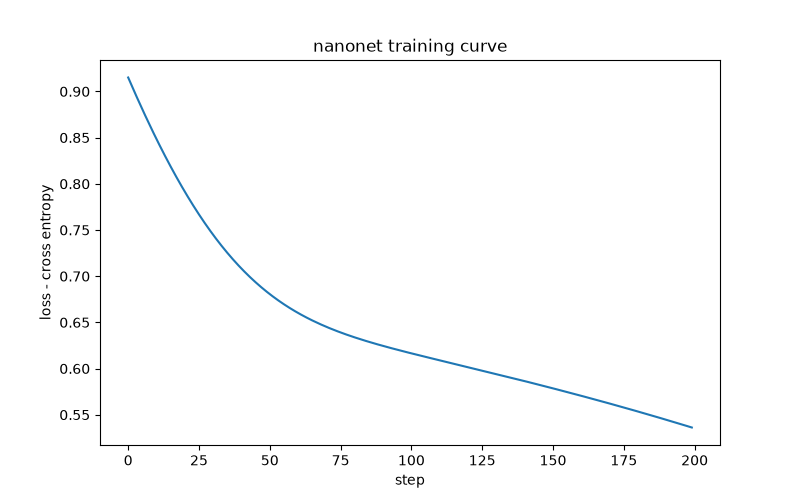
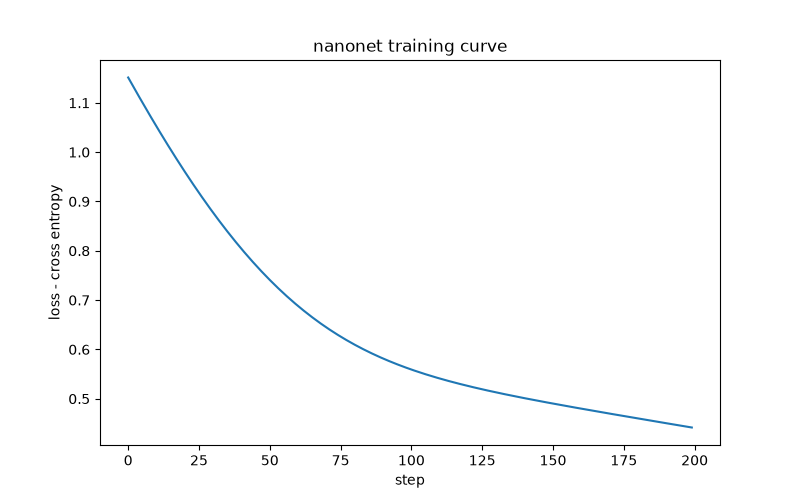
feat: library-style layout with fused softmax + cross-entropy

diff --git a/nanonet/model.py b/nanonet/model.py
@@ -1,0 +1,81 @@
+import numpy as np
+from nanonet.autograd import Tensor
+from nanonet.optim import Adam
+
+
+class MLP:
+    """Multi-Layer Perceptron"""
+    def __init__(self, n_in: int, n_hidden: int, n_out: int, seed=0):
+        rng = np.random.default_rng(seed)
+        self.W1 = Tensor(rng.standard_normal((n_in, n_hidden)) *  np.sqrt(2 / n_in))
+        self.b1 = Tensor(np.zeros((n_hidden)))
+        self.W2 = Tensor(rng.standard_normal((n_hidden, n_out)) * np.sqrt(2 / n_hidden))
+        self.b2 = Tensor(np.zeros((n_out)))
+        self.params: list = [self.W1, self.b1, self.W2, self.b2]
+        self.loss_history: list[float] = []
+
+        
+    def forward(self, X):
+        x = Tensor(X)
+        z : Tensor = x @ self.W1 + self.b1
+        a = z.sigmoid()
+        logits: Tensor = a @ self.W2 + self.b2
+        probs = logits.softmax()
+        return probs
+    
+        
+    def train(self, X, y, epochs: int=5, batch=128, lr=1e-3, verbose=True):
+        opt = Adam(self.params, lr=lr)
+        for epoch in range(epochs):
+            idx = np.random.permutation(len(X))
+            X_shuf, y_shuf = X[idx], y[idx]
+            ep_loss, nb = 0, 0
+            
+            for i in range(0, len(X), batch):
+                xb = X_shuf[i:i + batch]
+                yb = y_shuf[i:i + batch]
+                opt.zero_grad()
+                probs = self.forward(xb)
+                loss: Tensor = _cross_entropy(probs, yb)
+                loss.backward()
+                opt.step()
+                ep_loss += loss.data
+                nb += 1
+            avg = ep_loss / nb
+            self.loss_history.append(avg)
+                
+            if verbose:
+                d = 1/5*epochs if epochs < 10 else 1/10*epochs
+                if epoch % d == 0:
+                    print(f"epoch {epoch+1}/{epochs}, loss: {avg:.3f}")
+                    
+        return self.loss_history
+                
+        
+    def predict(self, X):
+        probs = self.forward(X)
+        return probs.data.argmax(axis=1)
+
+        
+
+def _cross_entropy(probs: Tensor, y: np.ndarray):
+    """
+    probs: Tensor with softmax probs (B, C)
+    y: (B,) int labels
+    return Tensor loss (scalar) that is differentiable
+    """
+    B = probs.data.shape[0]
+    log_p = np.log(probs.data[np.arange(B), y] + 1e-15)
+    loss_data = -log_p.mean()
+    out = Tensor(data=loss_data, _prev=(probs,), _op='ce')
+    
+    def _backward():
+        # dL/dprobs -> dL/dlogits fused trick: probs - one_hot
+        dlogits = probs.data.copy()
+        dlogits[np.arange(B), y] -= 1
+        dlogits /= B
+        # chain with out.grad (which is 1
+        probs.grad += dlogits * out.grad
+    out._backward = _backward
+    return out
+

diff --git a/nanonet/autograd.py b/nanonet/autograd.py
@@ -1,0 +1,81 @@
+import numpy as np
+
+class Tensor:
+    def __init__(self, data, _prev=(), _op=''):
+        self.data = np.array(data) if not isinstance(data, np.ndarray) else data
+        self.grad = np.zeros_like(self.data)
+        self._backward = lambda: None
+        self._prev = set(_prev)
+        self._op   = _op
+        
+        
+    def __matmul__(self, other):
+        """Matrix Multiplication"""
+        other = other if isinstance(other, Tensor) else Tensor(other)
+        out   = Tensor(np.dot(self.data, other.data), (self, other), '@')
+        
+        def _backward():
+            self.grad  += out.grad @ other.data.T
+            # handle batch matmul
+            if other.data.ndim == 2:
+                other.grad += self.data.T @ out.grad
+            else:
+                other.grad += self.data.T
+        
+        out._backward = _backward
+        return out
+        
+        
+    def __add__(self, other):
+        other = other if isinstance(other, Tensor) else Tensor(other)
+        out   = Tensor(self.data + other.data, (self, other), '+')
+        
+        def _backward():
+            self.grad  += out.grad
+            other.grad += out.grad.sum(axis=0) if other.grad.shape !=  out.grad.shape else out.grad
+        
+        out._backward = _backward
+        return out
+        
+        
+    def sigmoid(self):
+        s   = 1 / (1 + np.exp(-self.data))
+        out = Tensor(s, (self,), 'sigmoid')
+        
+        def _backward():
+            self.grad += (s * (1-s)) * out.grad
+        out._backward = _backward
+        return out
+       
+    
+    def softmax(self):
+        x = self.data - self.data.max(axis=1, keepdims=True)
+        e = np.exp(x)
+        p = e / e.sum(axis=1, keepdims=True)  
+        out = Tensor(p, (self, ), 'softmax')
+        
+        def _backward():
+            # if coming from cross entropy, out.grad is already dlogits
+            self.grad += out.grad
+        
+        out._backward = _backward
+        out._softmax_data = p
+        return out   
+            
+            
+    def backward(self):
+        # topological sort
+        topo = []
+        visited = set()
+        def build(v):
+            if id(v) not in visited:
+                visited.add(id(v))
+                for child in v._prev:
+                    build(child)
+                topo.append(v)
+        build(self)
+        
+        self.grad = np.ones_like(self.data)
+        for v in reversed(topo):
+            v._backward()
+

diff --git a/nanonet/optim.py b/nanonet/optim.py
@@ -1,0 +1,24 @@
+import numpy as np
+
+
+class Adam:
+    def __init__(self, params: list, lr=1e-3, b1=0.9, b2=0.999, eps=1e-8):
+        self.params = params
+        self.lr, self.eps = lr, eps
+        self.b1, self.b2  = b1, b2
+        self.t = 0
+        self.m = [np.zeros_like(p.data) for p in params]
+        self.v = [np.zeros_like(p.data) for p in params]
+        
+    def step(self):
+        self.t += 1
+        for i, p in enumerate(self.params):
+            self.m[i] = self.b1 * self.m[i] + (1 - self.b1) * p.grad
+            self.v[i] = self.b2 * self.v[i] + (1 - self.b2) * (p.grad**2)
+            m_hat   = self.m[i] / (1 - self.b1 ** self.t)
+            v_hat   = self.v[i] / (1 - self.b2 ** self.t)
+            p.data -= self.lr * m_hat / (np.sqrt(v_hat) + self.eps)
+                
+    def zero_grad(self):
+        for p in self.params:
+            p.grad = np.zeros_like(p.data)

diff --git a/mnist.py b/mnist.py
@@ -1,4 +1,4 @@
-from nanonet import MLP
+from nanonet import ManualMLP as MLP
 import matplotlib.pyplot as plt
 from sklearn.datasets import fetch_openml
 from sklearn.model_selection import train_test_split

diff --git a/nanonet/__init__.py b/nanonet/__init__.py
@@ -1,0 +1,6 @@
+from .autograd import Tensor
+from .model import MLP
+from .optim import Adam
+from .manual import MLP as ManualMLP
+
+__all__= ["Tensor", "MLP", "Adam", "ManualMLP"]

diff --git a/README.md b/README.md
@@ -1,8 +1,16 @@
 ## NanoNet
 
 A tiny neural net built entirely in Numpy.
-No PyTorch, no Tensorflow, only raw code and math.
+No PyTorch, no Tensorflow, only raw code and math for learning
 
-MLP(784, 128, 10) from scratch 
-Gets ~97% on MNIST
-Built to learn how a neural net actually works at its core: forwardbackprop, gradient descent, Adam, softmax, cross-entropy; all in Numpy 
+
+# What's Inside
+- MLP(784, 128, 10) from scratch 
+- Gets ~96% on MNIST
+- Built to learn how a neural net actually works at its core: autograd engine, forward, backprop, gradient descent, Adam, softmax, cross-entropy; all in Numpy 
+
+# Struture
+- `nanonet/autograd.py`: Tensor engine with autograd
+- `nanonet/model.py`: MLP + Adam, training uses cross-entropy loss
+- `nanonet/optim.py`: Adam optimizer
+- `nanonet/manual.py`: first version with manual backprop
